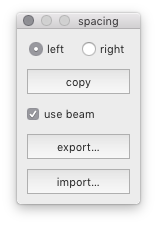
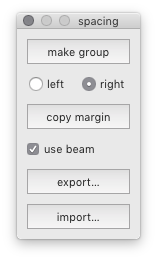
adding button to create new group + removing old imgs, README edits

Changed region(s): [[0.1019, 0.28, 0.8917, 0.9333], [0.1019, 0.0311, 0.8917, 0.2489]]

diff --git a/groupSpacing.roboFontExt/lib/groupSpacing.py b/groupSpacing.roboFontExt/lib/groupSpacing.py
@@ -213,11 +213,18 @@ class GroupSpacingWindow(BaseWindowController):
         lineHeight = 20
         buttonHeight = 25
         width = 123
-        height = lineHeight*2 + buttonHeight*3 + padding*6
+        height = lineHeight*2 + buttonHeight*4 + padding*7
 
         self.w = FloatingWindow((width, height), title='spacing')
 
         x = y = padding
+        self.w.makeGroupButton = SquareButton(
+                (x, y, -padding, buttonHeight),
+                'make group',
+                callback=self.makeGroupCallback,
+                sizeStyle='small')
+
+        y += buttonHeight + padding
         self.w.side = RadioGroup(
                 (x, y, -padding, lineHeight),
                 ['left', 'right'],
@@ -229,8 +236,8 @@ class GroupSpacingWindow(BaseWindowController):
         y += lineHeight + padding
         self.w.copySpacingButton = SquareButton(
                 (x, y, -padding, buttonHeight),
-                'copy',
-                callback=self.buttonCallback,
+                'copy margin',
+                callback=self.copySpacingCallback,
                 sizeStyle='small')
 
         y += buttonHeight + padding
@@ -284,7 +291,22 @@ class GroupSpacingWindow(BaseWindowController):
     # callbacks
     # ---------
 
-    def buttonCallback(self, sender):
+    def makeGroupCallback(self, sender):
+        '''Make a new spacing group with the selected glyph.'''
+
+        glyph = CurrentGlyph()
+        if not glyph:
+            return
+
+        if glyph.font is None:
+            return
+
+        prefix = PREFIX_LEFTSIDE if self.side == 'left' else PREFIX_RIGHTSIDE
+        groupName = prefix + glyph.name
+        if not groupName in glyph.font.groups:
+            glyph.font.groups[groupName] = [glyph.name]
+
+    def copySpacingCallback(self, sender):
         '''Copy margin from current glyph to other glyphs in left/right spacing class.'''
 
         glyph = CurrentGlyph()

diff --git a/README.md b/README.md
@@ -6,10 +6,10 @@ A RoboFont extension to enable group spacing in the Space Center.
 ![](imgs/groupSpacingWindow.png)
 
 - create left and right spacing groups using the [Groups Editor]
-- works together with the selected glyph in the [Space Center]
-- shows a preview of all other glyphs in the same spacing group
-- allows you to transfer margins from the current glyph to all other glyphs in the same group
-- supports margin measurements using the current beam
+- current glyph in [Space Center] shows all other glyphs in the same spacing group
+- transfer margins from selected glyph to all other glyphs in group
+- optionally use the Space Center’s beam to measure margins
+- import/export spacing groups to json file
 
 ![](imgs/spaceCenterSelected.png)
 
@@ -17,48 +17,6 @@ Name spacing groups using the standard prefixes:
 
 - `groupSpacing.left.`
 - `groupSpacing.right.`
-
-
-<!--
-How to use it
--------------
-
-1. Create left and right spacing groups using the [Groups Editor]:
-
-    ![](imgs/spacingGroups.png)
-
-    Name the groups using the standard prefixes:
-
-    - `groupSpacing.left.`
-    - `groupSpacing.right.`
-
-    …or modify the code to use a different prefix scheme if you wish.
-
-2. Open some glyphs in the [Space Center].
-
-3. Open the Group Spacing tool by running the script `groupSpacing.py`:
-
-    ![](imgs/groupSpacingWindow.png)
-
-    Choose between left- or right-side spacing class.
-
-4. Click on one glyph: if this glyph belongs to a spacing group, the other glyphs in this group are displayed in the background.
-
-    ![](imgs/spaceCenterBefore.png)
-
-5. Use the preview to check if the other glyphs in the spacing group are aligned. Adjust the margins of the selected glyph if needed.
-
-6. Click on the *copy* button to transfer the left or right margin from the current glyph to all other glyphs in the spacing group. Select the `beam` option to measure margins using the current Space Center’s beam.
-
-    ![](imgs/spaceCenterAfter.png)
-
-To Do
------
-
-- test with composed glyphs, italics
-- add option to copy margins automatically?
-- add *copy to left siblings* and *copy to right siblings* as menu shortcuts?
--->
 
 [Groups Editor]: http://robofont.com/documentation/workspace/groups-editor/
 [Space Center]: http://robofont.com/documentation/workspace/space-center
